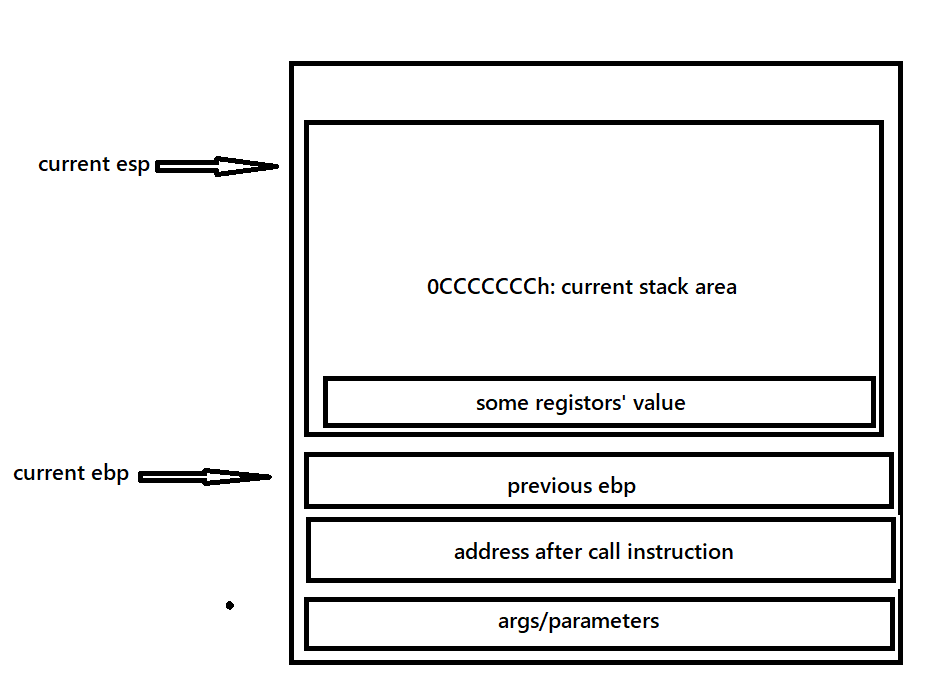
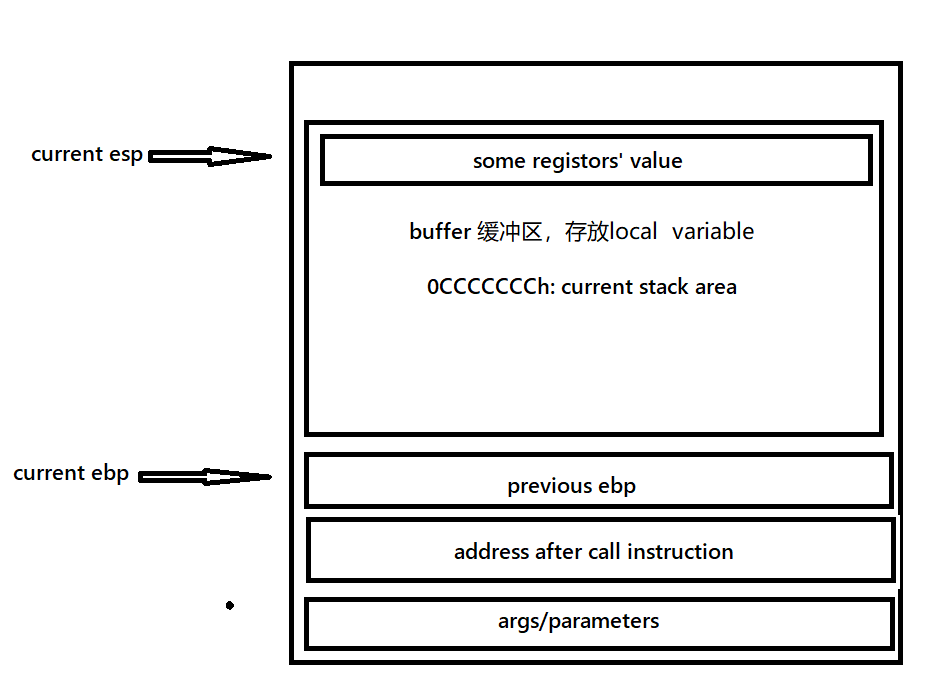
Site updated: 2020-03-07 23:52:08

diff --git a/2020/03/07/Assembly-Code-1-堆栈平衡/index.html b/2020/03/07/Assembly-Code-1-堆栈平衡/index.html
@@ -149,6 +149,7 @@
 <p><img src="/2020/03/07/Assembly-Code-1-堆栈平衡/2.png" alt="2.png"></p>
 <p>这里<code>[a]</code>就是<code>[ebp + 8]</code> 就是在<code>args/parameters</code>里面第<strong>一</strong>个参数,<code>[b]</code> 就是<code>[ebp + C]</code> 就是<code>args/parameters</code>里面第<strong>二</strong>个参数</p>
 <p><code>ebp + 4</code><strong>的值是在是call的下一个地址，因为每次call的时候都会往stack里面放入下一条instruction的address用于return。</strong></p>
+<p><code>ret</code> 这个instruction等价于 pop eip, 然后jmp eip。如果Hacker通过修改程序使得Buffer(缓冲区)写满，正好溢出到这个<code>ebp+4</code>的位置。那么当这个function return的时候就会返回到Hacker的函数里面。这个技术叫做<font color="red">缓冲区溢出</font></p>
 <p>当前function结束之后，就要将stack恢复到调用之前的状态。</p>
 <p><img src="/2020/03/07/Assembly-Code-1-堆栈平衡/3.png" alt="3.png"></p>
 <p><code>0038187E - 00381891</code> 就是为了恢复到调用前stack的状态。</p>
@@ -156,10 +157,12 @@
 <p>我们仔细观察后还可以发现eax就是最终return的值。 在Intel白皮书也指出了</p>
 <p><code>eax</code> 只有两个功能: 1, <strong>作为return result</strong> 2. 某些特定opcode的参数，比如<code>stos</code> 就会把<code>eax</code>的值放到<code>edi</code>的地址。</p>
 <p>另外<code>rep</code>会通过<code>ecx</code>的值来进行计数重复次数。</p>
-<p>Conclusion:</p>
+<p><strong>Conclusion:</strong></p>
 <ol>
 <li>堆栈平衡原理, <code>ebp</code>栈底, <code>esp</code>栈顶</li>
 <li><code>eax</code>是一个很重要的Register，通常用来存储返回结果。</li>
+<li><code>call</code>之后会push 下一个instruction的地址到stack里面</li>
+<li>缓冲区溢出到<code>ebp+4</code>的位置会导致跳转到Hacker自己写的函数。</li>
 </ol>
 
         </div>

diff --git a/tag/index.html b/tag/index.html
@@ -114,11 +114,11 @@
                 
                     <a href="/tags/HAX/">HAX<small>(3)</small></a>
                 
+                    <a href="/tags/Deep-Learning/">Deep-Learning<small>(1)</small></a>
+                
                     <a href="/tags/Thread/">Thread<small>(1)</small></a>
                 
                     <a href="/tags/Android/">Android<small>(4)</small></a>
-                
-                    <a href="/tags/Deep-Learning/">Deep-Learning<small>(1)</small></a>
                 
                     <a href="/tags/Recycler-View/">Recycler View<small>(1)</small></a>
                 
